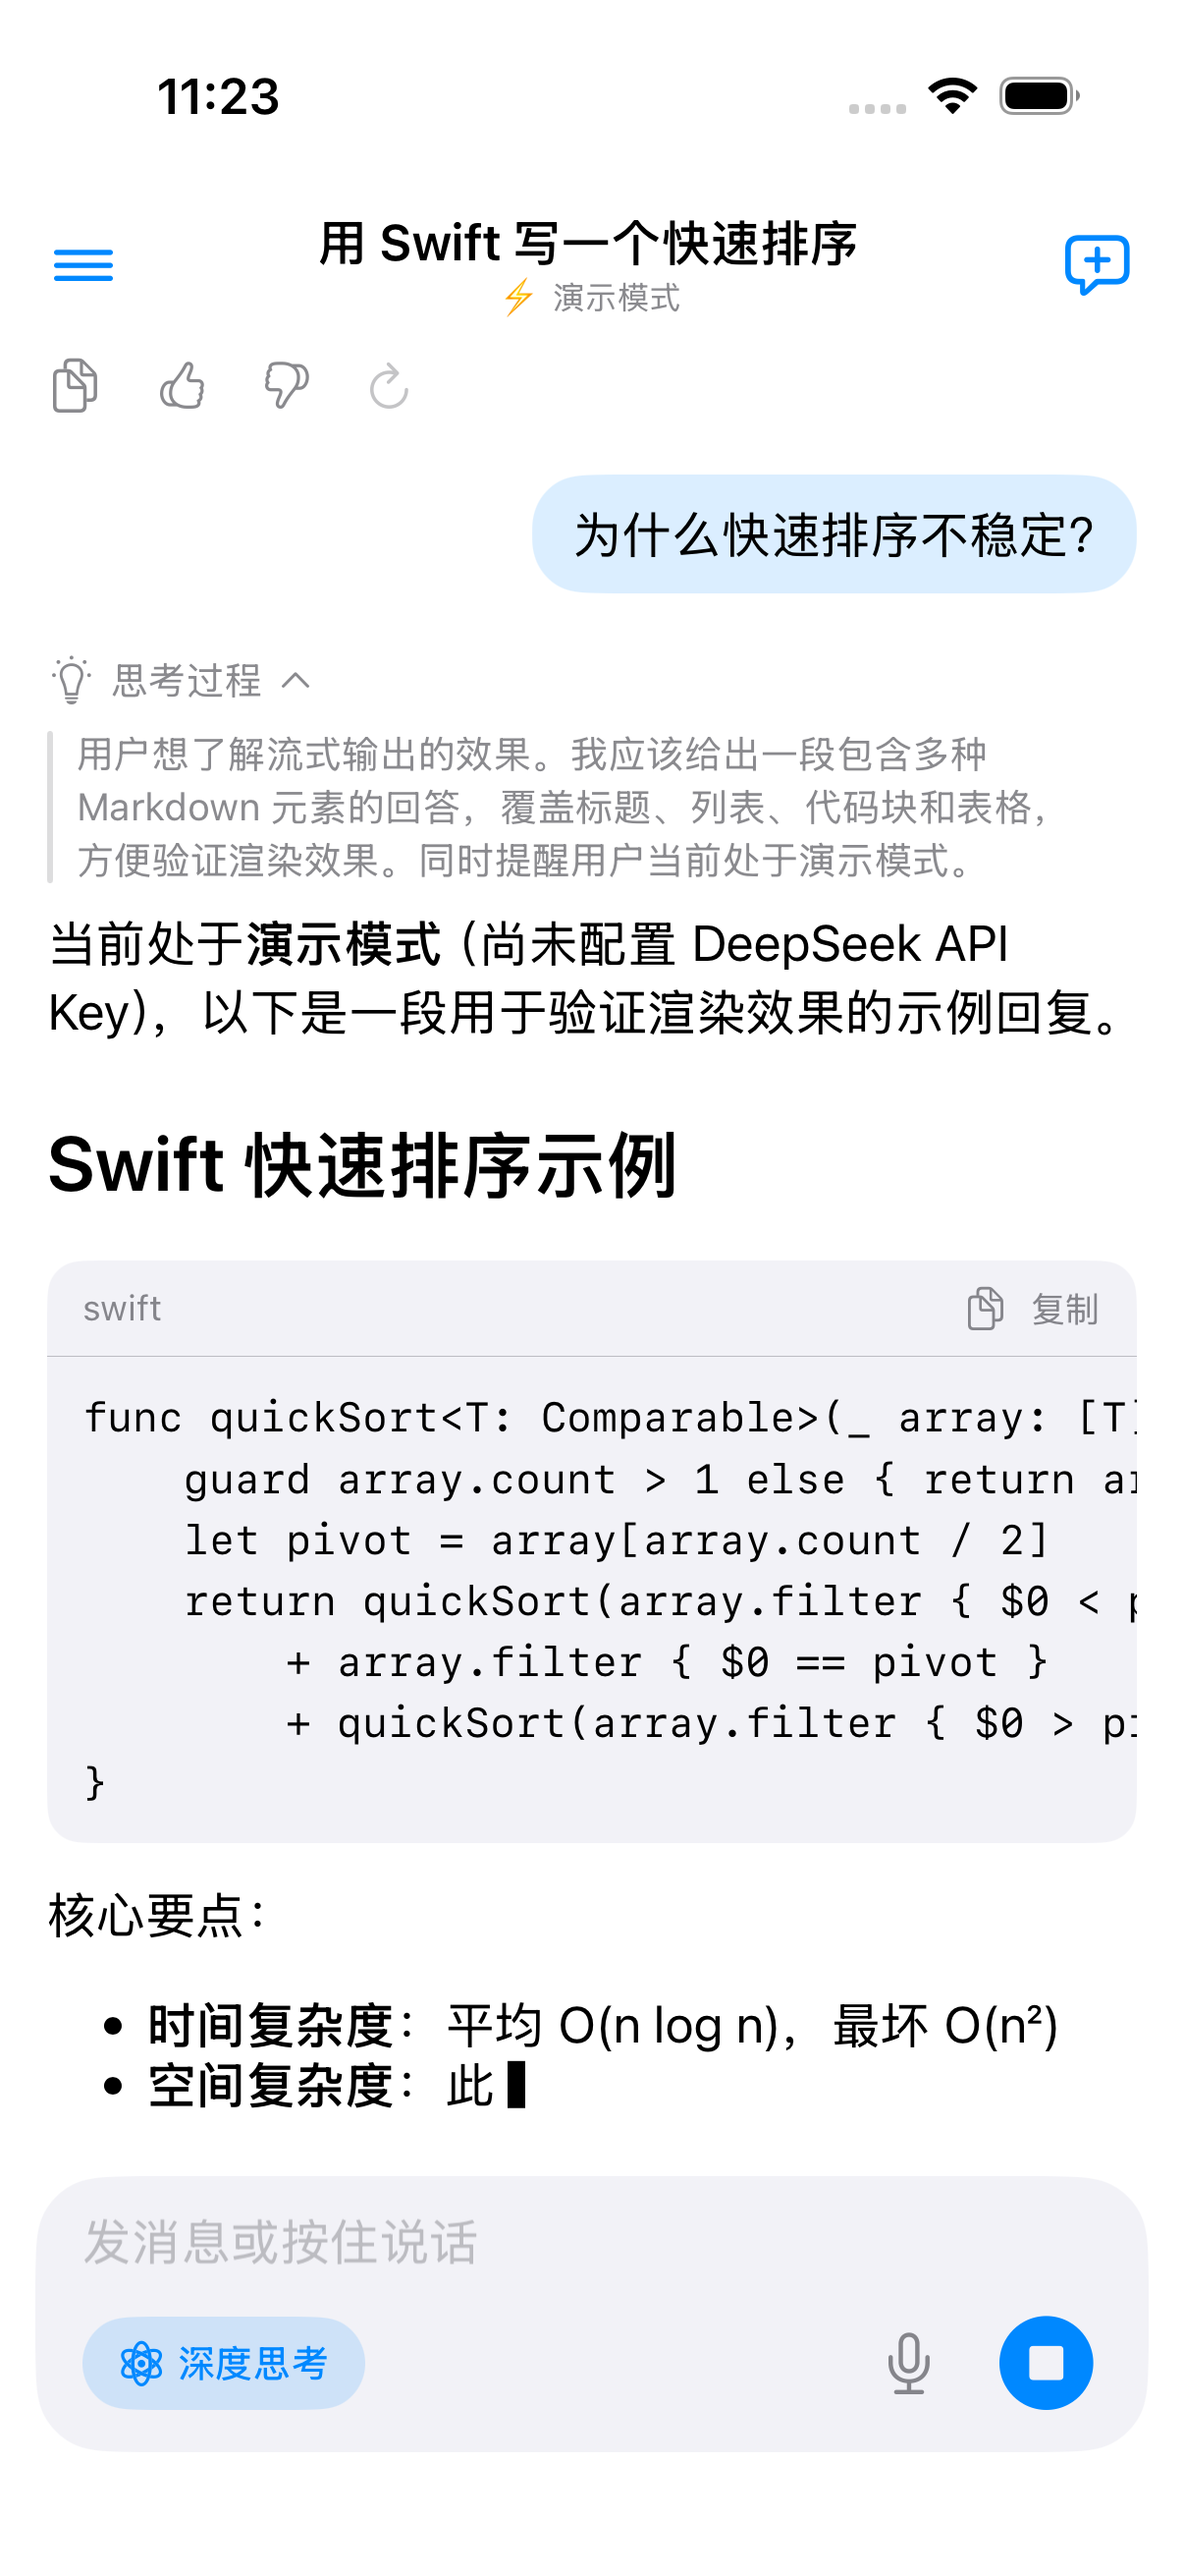
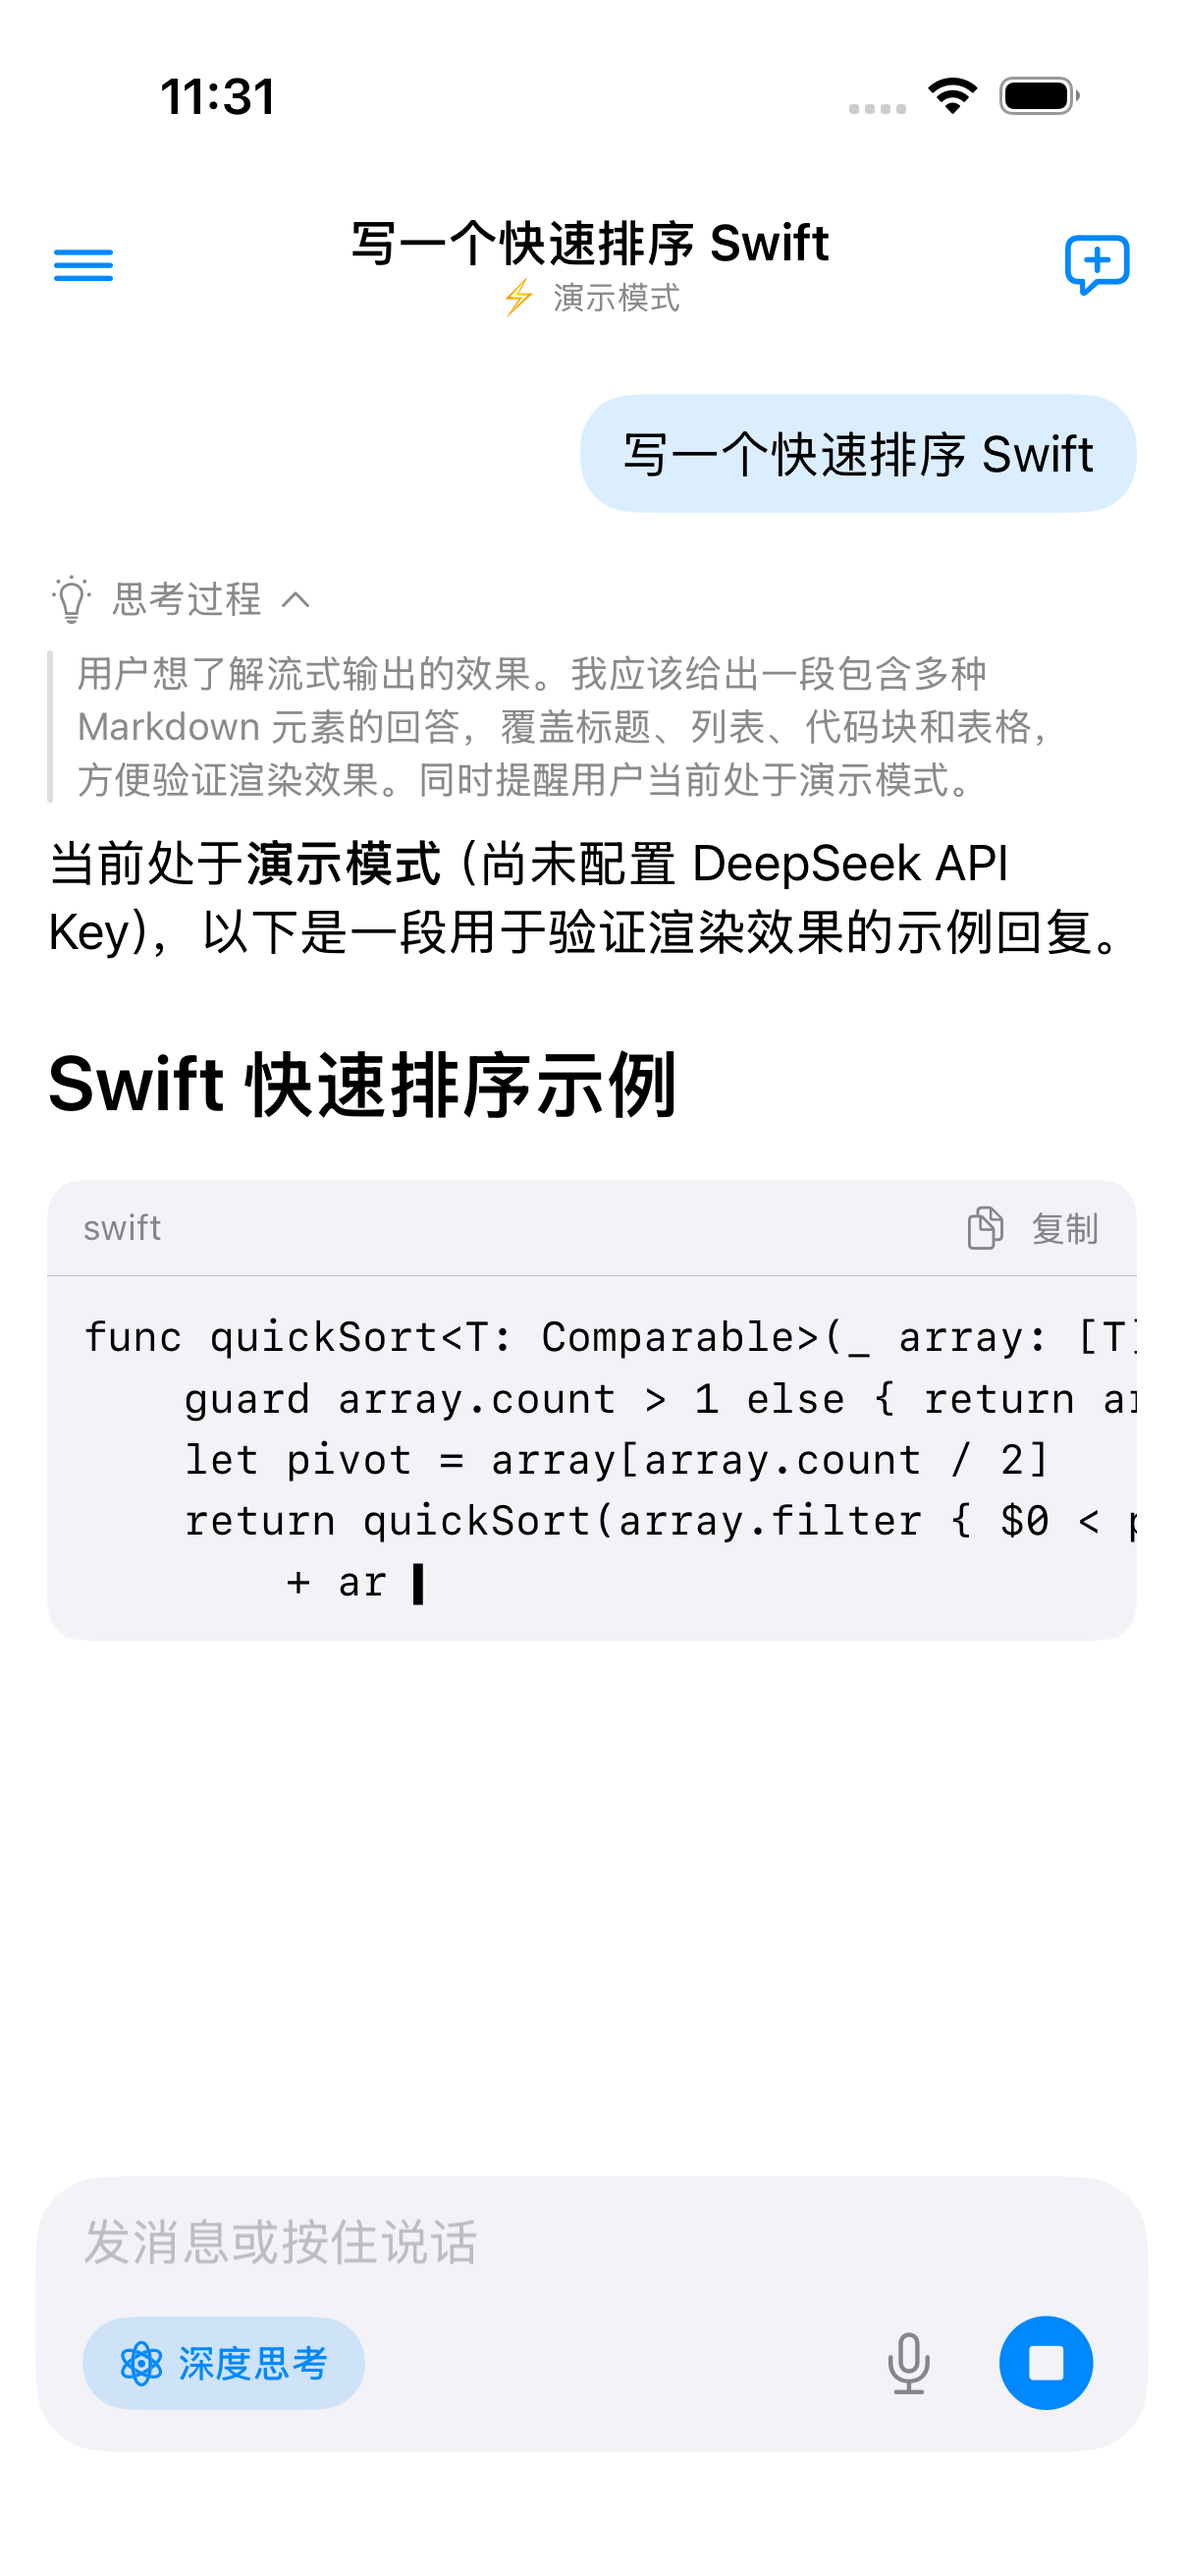
统一截图方案为种子数据版并重新生成抽屉截图
- 去掉重复的 ScreenshotCaptureTests 与重复的 chat.menu identifier
- UITestSeeder 改为清空后重建，避免克隆模拟器残留数据导致种子失效
- 抽屉截图补全今天/昨天/年月时间分组效果

diff --git a/WBChatApp/WBChatApp/App/UITestSeeder.swift b/WBChatApp/WBChatApp/App/UITestSeeder.swift
@@ -16,12 +16,12 @@ enum UITestSeeder {
         ProcessInfo.processInfo.arguments.contains(launchArgument)
     }
 
-    /// 预填输入框草稿，并在库为空时插入几条带时间分组的历史会话
+    /// 预填输入框草稿，并重建几条带时间分组的历史会话
     static func seed(context: ModelContext, chatViewModel: ChatViewModel) {
         chatViewModel.draft = "写一个快速排序 Swift"
 
-        let count = (try? context.fetchCount(FetchDescriptor<Conversation>())) ?? 0
-        guard count == 0 else { return }
+        // 先清空历史（克隆模拟器可能残留旧数据），保证截图/测试结果确定
+        try? context.delete(model: Conversation.self)
 
         let calendar = Calendar.current
         let yesterday = calendar.date(byAdding: .day, value: -1, to: .now) ?? .now

diff --git a/WBChatApp/WBChatApp/Features/Chat/Views/ChatView.swift b/WBChatApp/WBChatApp/Features/Chat/Views/ChatView.swift
@@ -64,7 +64,6 @@ struct ChatView: View {
                     .foregroundStyle(.primary)
             }
             .accessibilityIdentifier("chat.menu")
-            .accessibilityIdentifier("chat.menu")
 
             Spacer()
 
